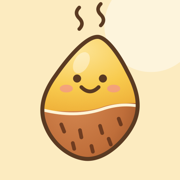
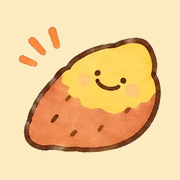
Use the watercolor sweet-potato illustrations as stamps
Each sweet potato is cut out of the user's reference image into
stamps/*.png and replaces the code-drawn SVG. Adds an "immunity" stamp
option, removes the down arrow from the weigh-in stamp, and rebuilds
the app icon from the same artwork.

diff --git a/index.html b/index.html
@@ -55,8 +55,8 @@ h2{margin:0;font-size:18px;line-height:1.3;font-family:Huninn,sans-serif;font-we
 .cell{width:50px;height:50px;position:relative}
 .cell svg{display:block;width:50px;height:50px}
 .cell .plus{position:absolute;right:-2px;top:-2px;width:18px;height:18px;border-radius:50%;background:var(--brown);color:#fff;font-size:12px;font-weight:700;display:flex;align-items:center;justify-content:center;border:2px solid var(--card)}
-.cell.pop svg{animation:pop .5s cubic-bezier(.3,1.6,.5,1)}
-@keyframes pop{0%{transform:scale(.2) rotate(-30deg);opacity:0}100%{transform:scale(1) rotate(var(--r,0deg));opacity:1}}
+.cell.pop img{animation:pop .5s cubic-bezier(.3,1.6,.5,1)}
+@keyframes pop{0%{transform:scale(.2) rotate(-30deg);opacity:0}100%{transform:scale(1);opacity:1}}
 .tabs{position:fixed;left:0;right:0;bottom:0;z-index:5;background:rgba(255,252,246,.96);backdrop-filter:blur(8px);-webkit-backdrop-filter:blur(8px);box-shadow:0 -4px 16px rgba(90,58,34,.06);padding:6px 8px calc(6px + env(safe-area-inset-bottom))}
 .tabs-in{max-width:480px;margin:0 auto;display:grid;grid-template-columns:repeat(5,minmax(0,1fr))}
 .tab{display:flex;flex-direction:column;align-items:center;gap:3px;padding:6px 0;min-height:52px;text-decoration:none;color:var(--muted);font-size:11.5px;font-weight:700;border-radius:14px}
@@ -87,8 +87,8 @@ details.prev{border-radius:18px;background:var(--card)}
 details.prev summary{min-height:52px;padding:0 18px;display:flex;align-items:center;font-size:15px;font-weight:700;cursor:pointer;list-style:none}
 details.prev summary::-webkit-details-marker{display:none}
 details.prev pre{margin:0;padding:0 18px 16px;font-family:inherit;font-size:14px;line-height:1.8;color:var(--muted);white-space:pre-wrap}
-.picker{display:grid;grid-template-columns:repeat(5,minmax(0,1fr));gap:8px}
-.pick{display:flex;flex-direction:column;align-items:center;gap:2px;padding:6px 0;border-radius:16px;border:2px solid transparent;background:var(--bg);cursor:pointer;font-size:11px;color:var(--muted)}
+.picker{display:grid;grid-template-columns:repeat(4,minmax(0,1fr));gap:8px}
+.pick{display:flex;flex-direction:column;align-items:center;gap:2px;padding:8px 0;border-radius:16px;border:2px solid transparent;background:var(--bg);cursor:pointer;font-size:11px;color:var(--muted)}
 .pick input{position:absolute;opacity:0;pointer-events:none}
 .pick:has(input:checked){border-color:var(--brown);background:var(--butter);color:var(--brown-ink)}
 .pick:has(input:focus-visible){outline:2px solid var(--brown)}
@@ -104,18 +104,6 @@ details.prev pre{margin:0;padding:0 18px 16px;font-family:inherit;font-size:14px
 </style>
 </head>
 <body>
-<svg width="0" height="0" style="position:absolute" aria-hidden="true" focusable="false">
-  <defs>
-    <filter id="wob" x="-8%" y="-8%" width="116%" height="116%">
-      <feTurbulence type="fractalNoise" baseFrequency="0.04" numOctaves="2" seed="4" result="n"/>
-      <feDisplacementMap in="SourceGraphic" in2="n" scale="2.4" xChannelSelector="R" yChannelSelector="G"/>
-    </filter>
-    <clipPath id="bodyClip"><path d="M56 8C62 9 70 20 76 32C83 45 86 57 80 69C74 81 60 94 47 93C36 92 24 83 19 70C14 58 18 46 26 35C35 22 48 7 56 8Z"/></clipPath>
-    <radialGradient id="gFlesh" cx="40%" cy="28%" r="72%"><stop offset="0" stop-color="#FDE59A"/><stop offset=".6" stop-color="#F8CB4E"/><stop offset="1" stop-color="#EFB13A"/></radialGradient>
-    <radialGradient id="gSkin" cx="35%" cy="45%" r="75%"><stop offset="0" stop-color="#D88C55"/><stop offset=".7" stop-color="#BF6E3A"/><stop offset="1" stop-color="#A35A2D"/></radialGradient>
-  </defs>
-</svg>
-
 <main class="app">
 
 <!-- ===== 本週 ===== -->
@@ -310,79 +298,14 @@ details.prev pre{margin:0;padding:0 18px 16px;font-family:inherit;font-size:14px
   function refreshWeek(){ week = mondayOf(taipeiNow()); weekKey = iso(week); nextKey = iso(addDays(week, 7)); }
   refreshWeek();
 
-  // ---------- 地瓜插畫 ----------
-  var LINE = '#5A3A22';
-  // 地瓜：直立的水滴形，上尖下圓，上半黃肉、下半帶紋路的皮
-  var BODY = 'M56 8C62 9 70 20 76 32C83 45 86 57 80 69C74 81 60 94 47 93C36 92 24 83 19 70C14 58 18 46 26 35C35 22 48 7 56 8Z';
-  var FLESH = 'M0 0H100V52C88 56 72 52 58 57C44 62 28 58 0 61Z';
-  var FACES = {
-    smile: '<circle cx="41" cy="35" r="2.8" fill="'+LINE+'"/><circle cx="59" cy="35" r="2.8" fill="'+LINE+'"/><path d="M44 41q6 6 12 0" fill="none" stroke="'+LINE+'" stroke-width="2.6" stroke-linecap="round"/>',
-    happy: '<path d="M37 36q4-4.5 8 0M55 36q4-4.5 8 0" fill="none" stroke="'+LINE+'" stroke-width="2.6" stroke-linecap="round"/><path d="M43.5 40.5h13q-1 9-6.5 9t-6.5-9z" fill="#B5473A" stroke="'+LINE+'" stroke-width="2.2" stroke-linejoin="round"/>',
-    grit: '<path d="M36 29.5l8 3M64 29.5l-8 3" stroke="'+LINE+'" stroke-width="2.6" stroke-linecap="round"/><circle cx="42" cy="36" r="2.6" fill="'+LINE+'"/><circle cx="58" cy="36" r="2.6" fill="'+LINE+'"/><path d="M45 41.5h10q-1.5 6-5 6t-5-6z" fill="#B5473A" stroke="'+LINE+'" stroke-width="2.2" stroke-linejoin="round"/>',
-    sleep: '<path d="M37 36q4 3 8 0M55 36q4 3 8 0" fill="none" stroke="'+LINE+'" stroke-width="2.6" stroke-linecap="round"/><ellipse cx="50" cy="43" rx="2.6" ry="2" fill="'+LINE+'"/>'
-  };
-  function potato(face){
-    return '<path d="'+BODY+'" fill="url(#gSkin)"/>' +
-      '<path d="'+FLESH+'" fill="url(#gFlesh)" clip-path="url(#bodyClip)"/>' +
-      '<path d="M17.5 59C30 62 44 63 58 58.5C68 55 76 55 83 56" fill="none" stroke="#FFF4D6" stroke-width="2" stroke-linecap="round" opacity=".9" clip-path="url(#bodyClip)"/>' +
-      '<ellipse cx="44" cy="26" rx="5" ry="8" fill="#fff" opacity=".4" transform="rotate(30 44 26)"/>' +
-      '<path d="M30 69l2 5M43 73l1 5M57 70l1.5 5M70 65l1.5 4M38 82l1 4M51 84l1 4M63 79l1.5 4" stroke="#5A2E18" stroke-width="2.6" stroke-linecap="round" opacity=".8"/>' +
-      '<ellipse cx="33.5" cy="44" rx="4.6" ry="2.7" fill="#F29A86" opacity=".8"/><ellipse cx="66.5" cy="44" rx="4.6" ry="2.7" fill="#F29A86" opacity=".8"/>' +
-      '<g transform="translate(0 2)">' + FACES[face||'smile'] + '</g>' +
-      '<path d="'+BODY+'" fill="none" stroke="'+LINE+'" stroke-width="2.8" stroke-linejoin="round"/>';
-  }
-  function sparkle(cx, cy, r){ return '<path d="M'+cx+' '+(cy-r)+'Q'+cx+' '+cy+' '+(cx+r)+' '+cy+'Q'+cx+' '+cy+' '+cx+' '+(cy+r)+'Q'+cx+' '+cy+' '+(cx-r)+' '+cy+'Q'+cx+' '+cy+' '+cx+' '+(cy-r)+'Z" fill="#F6C64A" stroke="#D99A26" stroke-width="1.4" stroke-linejoin="round"/>'; }
-  function at(tx, ty, s, inner){ return '<g transform="translate('+tx+' '+ty+') scale('+s+')">'+inner+'</g>'; }
-  var ACT = '#E58B3A';
-  var ART = {
-    bowl: at(-3,-5,.9, potato('happy')) +
-      '<path d="M70 62L95 30M75 63L99 34" stroke="#8B5A2B" stroke-width="3.2" stroke-linecap="round"/>' +
-      '<path d="M44 66h48a24 18 0 0 1-48 0z" fill="#FFFDF7" stroke="'+LINE+'" stroke-width="2.8" stroke-linejoin="round"/>' +
-      '<path d="M47 66q3.5-6 7 0q3.5-6 7 0q3.5-6 7 0q3.5-6 7 0q3.5-6 7 0q3.5-6 7 0" fill="#fff" stroke="'+LINE+'" stroke-width="2" stroke-linejoin="round"/>' +
-      '<path d="M8 22l7 4M14 12l5 7M24 6l2 8" stroke="'+ACT+'" stroke-width="3" stroke-linecap="round"/>',
-    lift: at(8,8,.84, potato('grit')) +
-      '<rect x="14" y="58.5" width="14" height="5" fill="#8A8A8A"/><rect x="72" y="58.5" width="14" height="5" fill="#8A8A8A"/>' +
-      '<rect x="3" y="47" width="12" height="28" rx="4" fill="#9C9C9C" stroke="'+LINE+'" stroke-width="2.6"/>' +
-      '<rect x="85" y="47" width="12" height="28" rx="4" fill="#9C9C9C" stroke="'+LINE+'" stroke-width="2.6"/>' +
-      '<circle cx="27" cy="61" r="6" fill="#F8CB4E" stroke="'+LINE+'" stroke-width="2.4"/><circle cx="73" cy="61" r="6" fill="#F8CB4E" stroke="'+LINE+'" stroke-width="2.4"/>' +
-      '<path d="M24 10l3 6M50 3v7M76 10l-3 6" stroke="'+ACT+'" stroke-width="3" stroke-linecap="round"/>',
-    weigh: at(9,-1,.82, potato('smile')) +
-      '<rect x="12" y="76" width="76" height="17" rx="7" fill="#F1E9DD" stroke="'+LINE+'" stroke-width="2.8"/>' +
-      '<rect x="40" y="80" width="20" height="8" rx="3" fill="#fff" stroke="'+LINE+'" stroke-width="1.8"/><path d="M45 84h10" stroke="#A65A2C" stroke-width="1.8" stroke-linecap="round"/>' +
-      sparkle(88, 18, 7) + sparkle(12, 30, 5),
-    water: at(-4,2,.9, potato('smile')) +
-      '<rect x="62" y="48" width="25" height="42" rx="9" fill="#CFE6F2" stroke="'+LINE+'" stroke-width="2.8"/>' +
-      '<rect x="67" y="40" width="15" height="10" rx="3" fill="#9CCBE2" stroke="'+LINE+'" stroke-width="2.4"/>' +
-      '<path d="M66 64h17" stroke="#fff" stroke-width="3" stroke-linecap="round" opacity=".8"/>' +
-      '<path d="M88 12q5 7 0 11q-5-4 0-11z" fill="#8EC5E8" stroke="#5E9EC4" stroke-width="1.4"/>',
-    sleep: potato('sleep') +
-      '<path d="M7 62C30 51 72 51 95 63L93 93H9Z" fill="#F7D6CF" stroke="'+LINE+'" stroke-width="2.8" stroke-linejoin="round"/>' +
-      '<path d="M22 60v31M36 57v34M50 56v35M64 56v35M78 59v32M10 73h83M10 83h83" stroke="#EBA19A" stroke-width="1.5" opacity=".8"/>' +
-      '<text x="72" y="22" font-size="15" fill="'+LINE+'" font-family="Huninn,sans-serif">z</text><text x="82" y="13" font-size="19" fill="'+LINE+'" font-family="Huninn,sans-serif">z</text>',
-    stretch: '<path d="M4 88h92l-6 8H10z" fill="#F4A99C" stroke="'+LINE+'" stroke-width="2.4" stroke-linejoin="round"/>' +
-      '<g transform="translate(50 62) scale(1.15 .78) translate(-50 -56)">' + potato('smile') + '</g>' +
-      '<path d="M6 50l8 4M4 62h9M94 50l-8 4M96 62h-9" stroke="'+ACT+'" stroke-width="3" stroke-linecap="round"/>',
-    run: potato('smile') +
-      '<path d="M17.5 31C38 24 62 24 82.5 31L82 39C62 33 38 33 18 39Z" fill="#FFFDF7" stroke="'+LINE+'" stroke-width="2.4" stroke-linejoin="round"/>' +
-      '<path d="M18 33L3 26M18 37L4 42" stroke="'+LINE+'" stroke-width="2.4" stroke-linecap="round"/>' +
-      '<path d="M90 18q3 3 0 6q-3 3 0 6M96 22q3 3 0 6" fill="none" stroke="'+ACT+'" stroke-width="2.4" stroke-linecap="round"/>',
-    heart: at(-2,-6,.94, potato('smile')) +
-      '<path d="M50 90C33 79 27 70 31 62c3.5-7 12.5-7 19 1 6.5-8 15.5-8 19-1 4 8-2 17-19 28z" fill="#F28C80" stroke="'+LINE+'" stroke-width="2.6" stroke-linejoin="round"/>' +
-      '<path d="M43 66q2-3 5-2" fill="none" stroke="#fff" stroke-width="2.4" stroke-linecap="round" opacity=".8"/>' +
-      '<path d="M86 14c-4-3-7-1-6 2 1 3 6 6 6 6s5-3 6-6c1-3-2-5-6-2z" fill="#F28C80"/>',
-    plan: at(20,10,.8, potato('smile')) +
-      '<rect x="4" y="30" width="38" height="52" rx="6" fill="#FFFDF7" stroke="'+LINE+'" stroke-width="2.6"/>' +
-      '<rect x="15" y="25" width="16" height="9" rx="3" fill="#CFC6BB" stroke="'+LINE+'" stroke-width="2"/>' +
-      '<path d="M10 47l3 3 5-6M10 62l3 3 5-6" fill="none" stroke="'+ACT+'" stroke-width="2.6" stroke-linecap="round" stroke-linejoin="round"/>' +
-      '<path d="M23 48h13M23 63h13M10 74h26" stroke="#CDB9A3" stroke-width="2.2" stroke-linecap="round"/>',
-    star: at(8,14,.84, potato('smile')) + '<path d="M44 2q-4 4 0 8t0 8M56 0q-4 4 0 8t0 8" fill="none" stroke="'+LINE+'" stroke-width="2.4" stroke-linecap="round"/>' + sparkle(88, 30, 7) + sparkle(12, 40, 5)
-  };
-  var ICON_LABEL = { bowl:'飲食', lift:'重訓', weigh:'體重', water:'補水', sleep:'睡眠', stretch:'伸展', run:'有氧', heart:'身心', plan:'計畫', star:'其他' };
+  // ---------- 地瓜插畫（使用者提供的水彩圖，裁切後放在 stamps/） ----------
+  var ICON_LABEL = { bowl:'飲食', lift:'重訓', weigh:'體重', water:'補水', sleep:'睡眠', stretch:'伸展', run:'有氧', heart:'身心', plan:'計畫', shield:'免疫', star:'其他' };
+  function iconKey(k){ return ICON_LABEL[k] ? k : 'star'; }
   function art(key, size, label){
-    return '<svg viewBox="0 0 100 100" width="'+size+'" height="'+size+'" '+(label?'role="img" aria-label="'+esc(label)+'"':'aria-hidden="true"')+' style="display:block;overflow:visible"><g filter="url(#wob)">'+(ART[key]||ART.star)+'</g></svg>';
+    return '<img src="stamps/'+iconKey(key)+'.png" width="'+size+'" height="'+size+'" alt="'+(label?esc(label):'')+'" style="display:block">';
   }
   function stampSvg(key, label, bonus){
-    return '<svg viewBox="0 0 100 100" role="img" aria-label="'+label+'"><g filter="url(#wob)"><circle cx="50" cy="50" r="48" fill="'+(bonus?'#FBDDBF':'#FCEBC0')+'"/>' + at(8,8,.84, ART[key]||ART.star) + '</g></svg>';
+    return '<span role="img" aria-label="'+label+'" style="display:flex;align-items:center;justify-content:center;width:50px;height:50px;border-radius:50%;background:'+(bonus?'#FBDDBF':'#FCEBC0')+'"><img src="stamps/'+iconKey(key)+'.png" width="44" height="44" alt=""></span>';
   }
   function emptySvg(n){ return '<svg viewBox="0 0 100 100" role="img" aria-label="第 '+n+' 格未蓋章"><circle cx="50" cy="50" r="45" fill="#F4E7D4"/><text x="50" y="59" text-anchor="middle" font-family="Huninn,sans-serif" font-size="26" fill="#80634B">'+n+'</text></svg>'; }
 
@@ -482,7 +405,7 @@ details.prev pre{margin:0;padding:0 18px 16px;font-family:inherit;font-size:14px
     }).join('') : '<p class="sub" style="text-align:center;padding:12px">下週還沒有習慣，從下面新增一個吧。</p>';
     document.getElementById('resetNext').hidden = !load('bd:habits:'+nextKey, null);
     document.getElementById('goalVal').textContent = newGoal + ' 次';
-    document.getElementById('picker').innerHTML = Object.keys(ART).map(function(k){
+    document.getElementById('picker').innerHTML = Object.keys(ICON_LABEL).map(function(k){
       return '<label class="pick"><input type="radio" name="icon" value="'+k+'"'+(k===newIcon?' checked':'')+'>'+art(k, 40)+ICON_LABEL[k]+'</label>';
     }).join('');
   }
